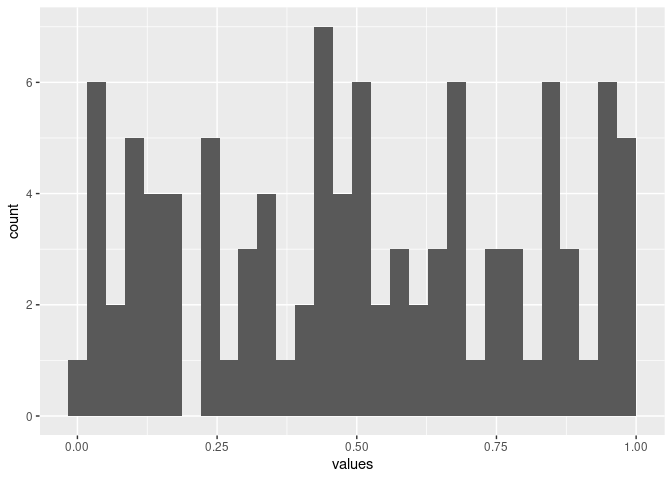
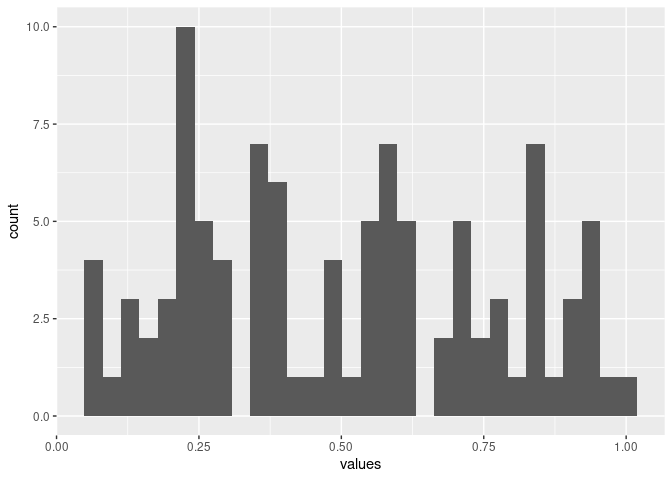
update readme

diff --git a/README.html b/README.html
@@ -34,7 +34,7 @@ body {
 
 <p>The goal of UN.plot.package is to generate any number of values from either uniform distribution or normal distribution. Plot the histogram for those values.</p>
 <h2 id="installation">Installation</h2>
-<p>You can install the released version of random.plot.package from <a href="https://CRAN.R-project.org">CRAN</a> with:</p>
+<p>You can install the random.plot.package from GitHub with:</p>
 <div class="sourceCode" id="cb1"><pre class="sourceCode r"><code class="sourceCode r"><span id="cb1-1"><a href="#cb1-1" aria-hidden="true" tabindex="-1"></a><span class="fu">library</span>(devtools)</span>
 <span id="cb1-2"><a href="#cb1-2" aria-hidden="true" tabindex="-1"></a>devtools<span class="sc">::</span><span class="fu">install_github</span>(<span class="st">&quot;tianyang1998/UN.plot.package&quot;</span>)</span></code></pre></div>
 <h2 id="example">Example</h2>
@@ -45,27 +45,27 @@ body {
 <span id="cb2-4"><a href="#cb2-4" aria-hidden="true" tabindex="-1"></a>ru <span class="ot">&lt;-</span> <span class="fu">random_unif</span>(<span class="dv">100</span>)</span></code></pre></div>
 <p>The part of the result values generated from both normal distribution and uniform distribution</p>
 <div class="sourceCode" id="cb3"><pre class="sourceCode r"><code class="sourceCode r"><span id="cb3-1"><a href="#cb3-1" aria-hidden="true" tabindex="-1"></a><span class="fu">head</span>(rn<span class="sc">$</span>values)</span>
-<span id="cb3-2"><a href="#cb3-2" aria-hidden="true" tabindex="-1"></a><span class="co">#&gt;        values</span></span>
-<span id="cb3-3"><a href="#cb3-3" aria-hidden="true" tabindex="-1"></a><span class="co">#&gt; 1  0.07126607</span></span>
-<span id="cb3-4"><a href="#cb3-4" aria-hidden="true" tabindex="-1"></a><span class="co">#&gt; 2  1.77474053</span></span>
-<span id="cb3-5"><a href="#cb3-5" aria-hidden="true" tabindex="-1"></a><span class="co">#&gt; 3  1.69359133</span></span>
-<span id="cb3-6"><a href="#cb3-6" aria-hidden="true" tabindex="-1"></a><span class="co">#&gt; 4 -1.58941078</span></span>
-<span id="cb3-7"><a href="#cb3-7" aria-hidden="true" tabindex="-1"></a><span class="co">#&gt; 5 -1.50899356</span></span>
-<span id="cb3-8"><a href="#cb3-8" aria-hidden="true" tabindex="-1"></a><span class="co">#&gt; 6 -0.28226067</span></span>
+<span id="cb3-2"><a href="#cb3-2" aria-hidden="true" tabindex="-1"></a><span class="co">#&gt;       values</span></span>
+<span id="cb3-3"><a href="#cb3-3" aria-hidden="true" tabindex="-1"></a><span class="co">#&gt; 1  0.3956108</span></span>
+<span id="cb3-4"><a href="#cb3-4" aria-hidden="true" tabindex="-1"></a><span class="co">#&gt; 2 -0.2333113</span></span>
+<span id="cb3-5"><a href="#cb3-5" aria-hidden="true" tabindex="-1"></a><span class="co">#&gt; 3 -0.3316063</span></span>
+<span id="cb3-6"><a href="#cb3-6" aria-hidden="true" tabindex="-1"></a><span class="co">#&gt; 4  0.3470883</span></span>
+<span id="cb3-7"><a href="#cb3-7" aria-hidden="true" tabindex="-1"></a><span class="co">#&gt; 5 -0.6051762</span></span>
+<span id="cb3-8"><a href="#cb3-8" aria-hidden="true" tabindex="-1"></a><span class="co">#&gt; 6  0.7722513</span></span>
 <span id="cb3-9"><a href="#cb3-9" aria-hidden="true" tabindex="-1"></a><span class="fu">head</span>(ru<span class="sc">$</span>values)</span>
-<span id="cb3-10"><a href="#cb3-10" aria-hidden="true" tabindex="-1"></a><span class="co">#&gt;      values</span></span>
-<span id="cb3-11"><a href="#cb3-11" aria-hidden="true" tabindex="-1"></a><span class="co">#&gt; 1 0.2508414</span></span>
-<span id="cb3-12"><a href="#cb3-12" aria-hidden="true" tabindex="-1"></a><span class="co">#&gt; 2 0.6731990</span></span>
-<span id="cb3-13"><a href="#cb3-13" aria-hidden="true" tabindex="-1"></a><span class="co">#&gt; 3 0.9936017</span></span>
-<span id="cb3-14"><a href="#cb3-14" aria-hidden="true" tabindex="-1"></a><span class="co">#&gt; 4 0.1512569</span></span>
-<span id="cb3-15"><a href="#cb3-15" aria-hidden="true" tabindex="-1"></a><span class="co">#&gt; 5 0.4654515</span></span>
-<span id="cb3-16"><a href="#cb3-16" aria-hidden="true" tabindex="-1"></a><span class="co">#&gt; 6 0.4304327</span></span></code></pre></div>
+<span id="cb3-10"><a href="#cb3-10" aria-hidden="true" tabindex="-1"></a><span class="co">#&gt;       values</span></span>
+<span id="cb3-11"><a href="#cb3-11" aria-hidden="true" tabindex="-1"></a><span class="co">#&gt; 1 0.06433572</span></span>
+<span id="cb3-12"><a href="#cb3-12" aria-hidden="true" tabindex="-1"></a><span class="co">#&gt; 2 0.77517996</span></span>
+<span id="cb3-13"><a href="#cb3-13" aria-hidden="true" tabindex="-1"></a><span class="co">#&gt; 3 0.57628738</span></span>
+<span id="cb3-14"><a href="#cb3-14" aria-hidden="true" tabindex="-1"></a><span class="co">#&gt; 4 0.81171973</span></span>
+<span id="cb3-15"><a href="#cb3-15" aria-hidden="true" tabindex="-1"></a><span class="co">#&gt; 5 0.58471593</span></span>
+<span id="cb3-16"><a href="#cb3-16" aria-hidden="true" tabindex="-1"></a><span class="co">#&gt; 6 0.16765431</span></span></code></pre></div>
 <p>The histograms corresponding to the result values</p>
 <div class="sourceCode" id="cb4"><pre class="sourceCode r"><code class="sourceCode r"><span id="cb4-1"><a href="#cb4-1" aria-hidden="true" tabindex="-1"></a>rn<span class="sc">$</span>plot</span></code></pre></div>
[2 lines of base64/hex data omitted]
 
 <div class="sourceCode" id="cb5"><pre class="sourceCode r"><code class="sourceCode r"><span id="cb5-1"><a href="#cb5-1" aria-hidden="true" tabindex="-1"></a>ru<span class="sc">$</span>plot</span></code></pre></div>
[2 lines of base64/hex data omitted]
 
 </body>
 </html>

diff --git a/README.md b/README.md
@@ -12,8 +12,7 @@ for those values.
 
 ## Installation
 
-You can install the released version of random.plot.package from
-[CRAN](https://CRAN.R-project.org) with:
+You can install the random.plot.package from GitHub with:
 
 ``` r
 library(devtools)
@@ -38,21 +37,21 @@ and uniform distribution
 
 ``` r
 head(rn$values)
-#>        values
-#> 1  0.07126607
-#> 2  1.77474053
-#> 3  1.69359133
-#> 4 -1.58941078
-#> 5 -1.50899356
-#> 6 -0.28226067
+#>       values
+#> 1  0.3956108
+#> 2 -0.2333113
+#> 3 -0.3316063
+#> 4  0.3470883
+#> 5 -0.6051762
+#> 6  0.7722513
 head(ru$values)
-#>      values
-#> 1 0.2508414
-#> 2 0.6731990
-#> 3 0.9936017
-#> 4 0.1512569
-#> 5 0.4654515
-#> 6 0.4304327
+#>       values
+#> 1 0.06433572
+#> 2 0.77517996
+#> 3 0.57628738
+#> 4 0.81171973
+#> 5 0.58471593
+#> 6 0.16765431
 ```
 
 The histograms corresponding to the result values
